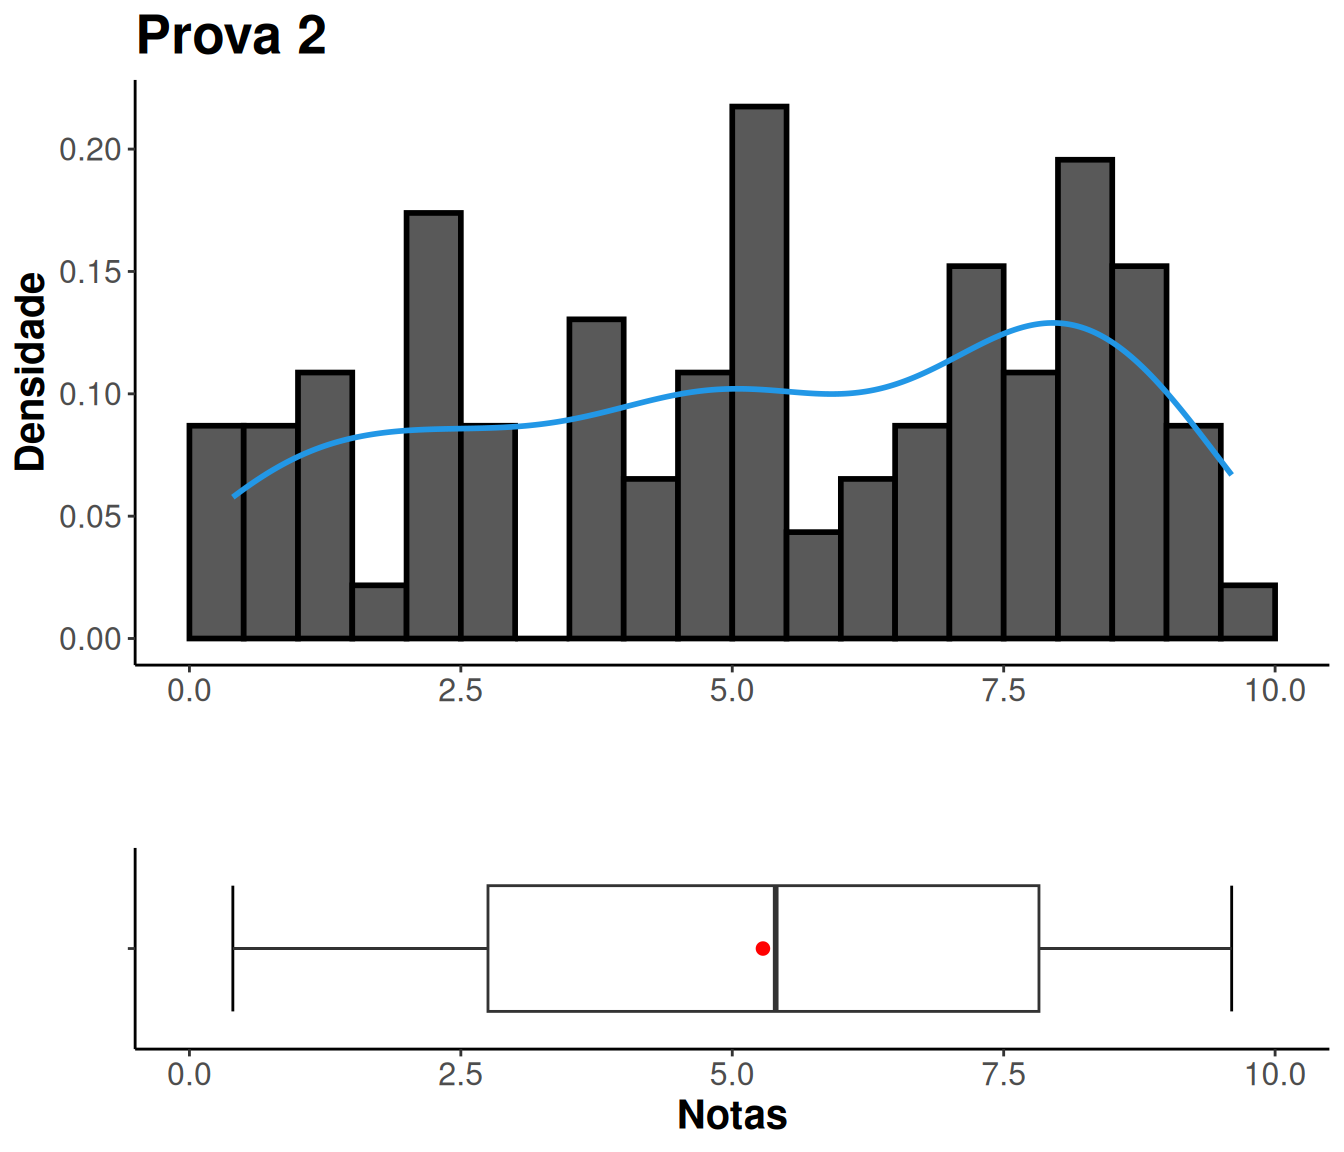
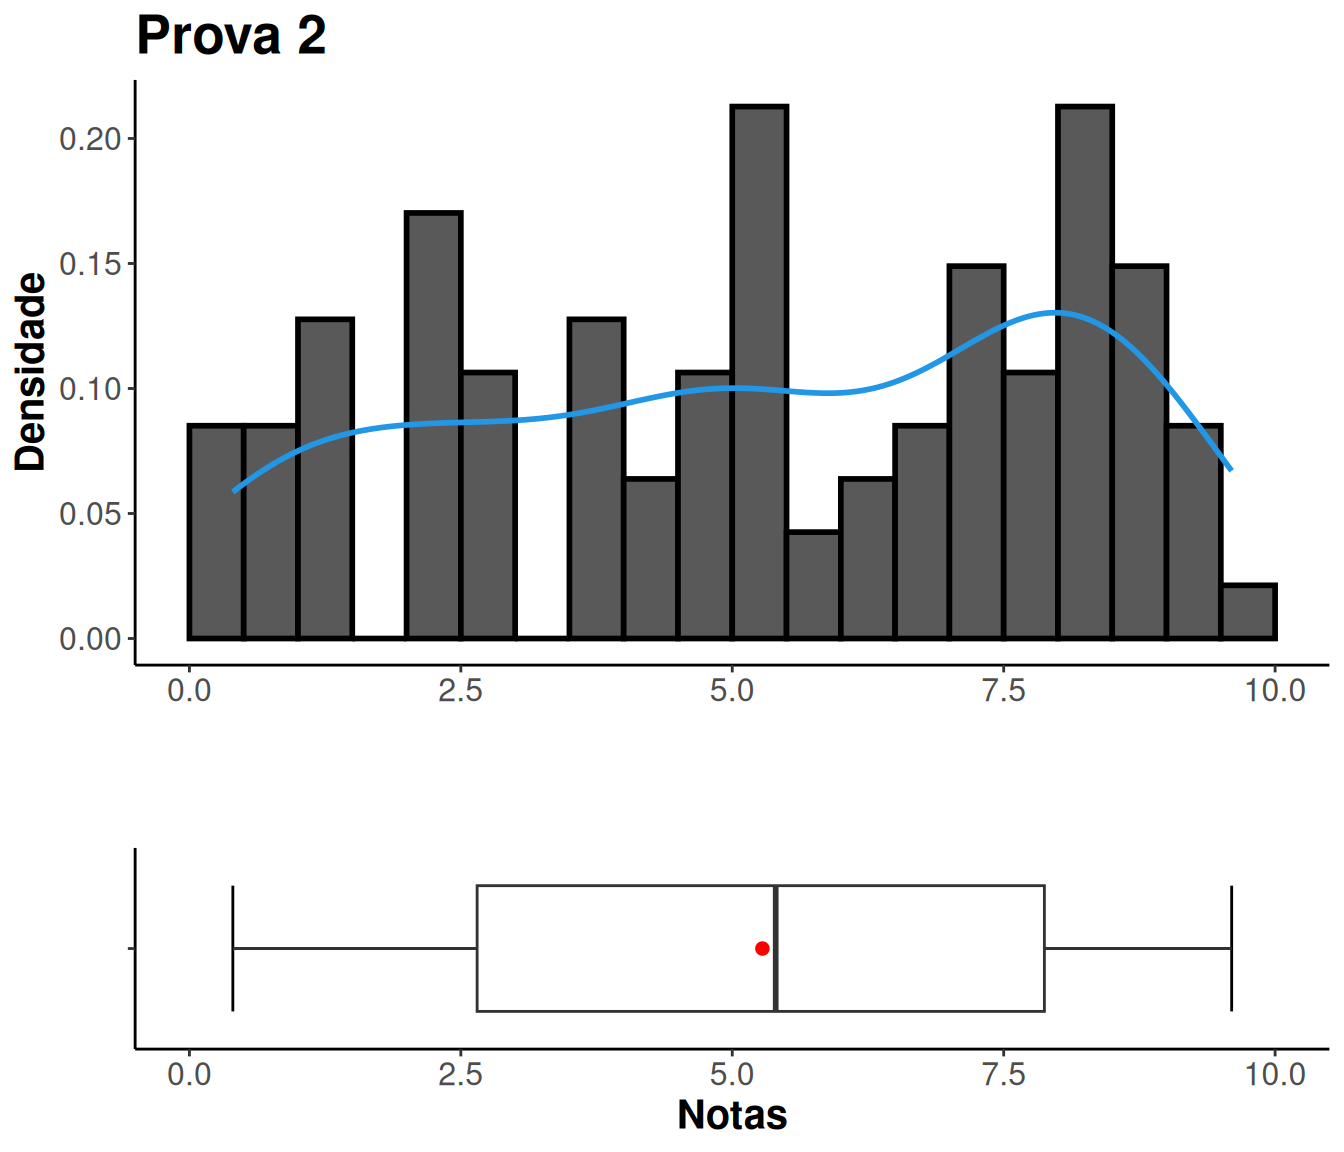
Atualizando arquivos de notas

diff --git a/notas.html b/notas.html
@@ -448,7 +448,7 @@ Prof. Dr. Paulo Justiniano Ribeiro Junior</div></h3>
 <tr class="even">
 <td align="left">GRR20262535</td>
 <td align="right">7.6</td>
-<td align="right">NA</td>
+<td align="right">1.1</td>
 <td align="right">8</td>
 </tr>
 <tr class="odd">
@@ -670,7 +670,7 @@ Prof. Dr. Paulo Justiniano Ribeiro Junior</div></h3>
 <tr class="odd">
 <td align="left">GRR20254019</td>
 <td align="right">7.8</td>
-<td align="right">1.8</td>
+<td align="right">8.2</td>
 <td align="right">20</td>
 </tr>
 <tr class="even">
@@ -742,7 +742,7 @@ Prof. Dr. Paulo Justiniano Ribeiro Junior</div></h3>
 <tr class="odd">
 <td align="left">GRR20266247</td>
 <td align="right">4.7</td>
-<td align="right">NA</td>
+<td align="right">2.6</td>
 <td align="right">4</td>
 </tr>
 <tr class="even">
@@ -1185,12 +1185,12 @@ class="section level1 tabset tabset-fade tabset-pills">
 </thead>
 <tbody>
 <tr class="odd">
-<td align="center">92</td>
+<td align="center">94</td>
 <td align="center">0.4</td>
-<td align="center">2.75</td>
-<td align="center">5.283</td>
+<td align="center">2.65</td>
+<td align="center">5.278</td>
 <td align="center">5.4</td>
-<td align="center">7.825</td>
+<td align="center">7.875</td>
 <td align="center">9.6</td>
 </tr>
 </tbody>
@@ -1211,8 +1211,8 @@ class="section level1 tabset tabset-fade tabset-pills">
 <tbody>
 <tr class="odd">
 <td align="center">9.2</td>
-<td align="center">7.868</td>
-<td align="center">2.805</td>
+<td align="center">7.925</td>
+<td align="center">2.815</td>
 </tr>
 </tbody>
 </table>
@@ -1623,7 +1623,7 @@ class="section level1 tabset tabset-fade tabset-pills">
 <td align="center">108</td>
 <td align="center">0</td>
 <td align="center">1.2</td>
-<td align="center">1.957</td>
+<td align="center">1.962</td>
 <td align="center">2.1</td>
 <td align="center">2.6</td>
 <td align="center">3.8</td>
@@ -1646,8 +1646,8 @@ class="section level1 tabset tabset-fade tabset-pills">
 <tbody>
 <tr class="odd">
 <td align="center">3.8</td>
-<td align="center">1.082</td>
-<td align="center">1.04</td>
+<td align="center">1.075</td>
+<td align="center">1.037</td>
 </tr>
 </tbody>
 </table>
